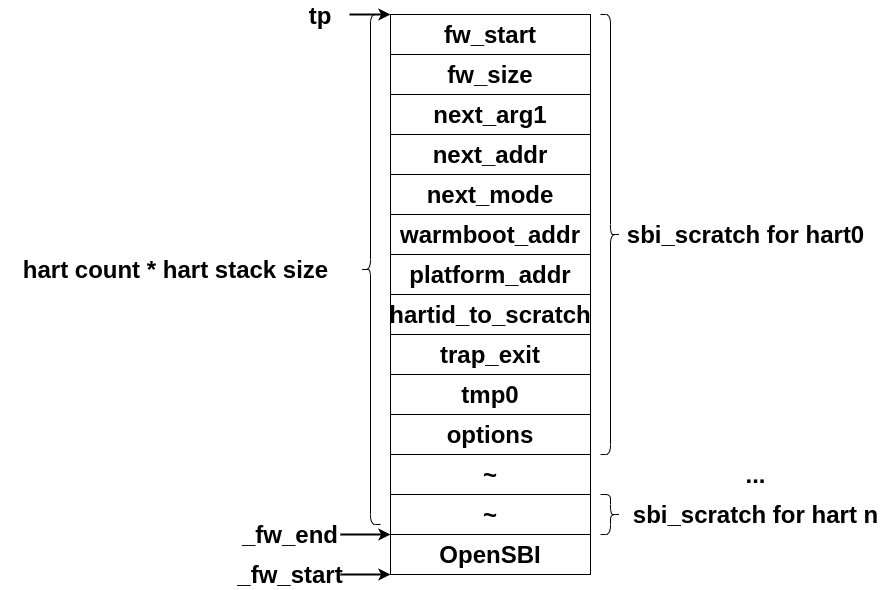
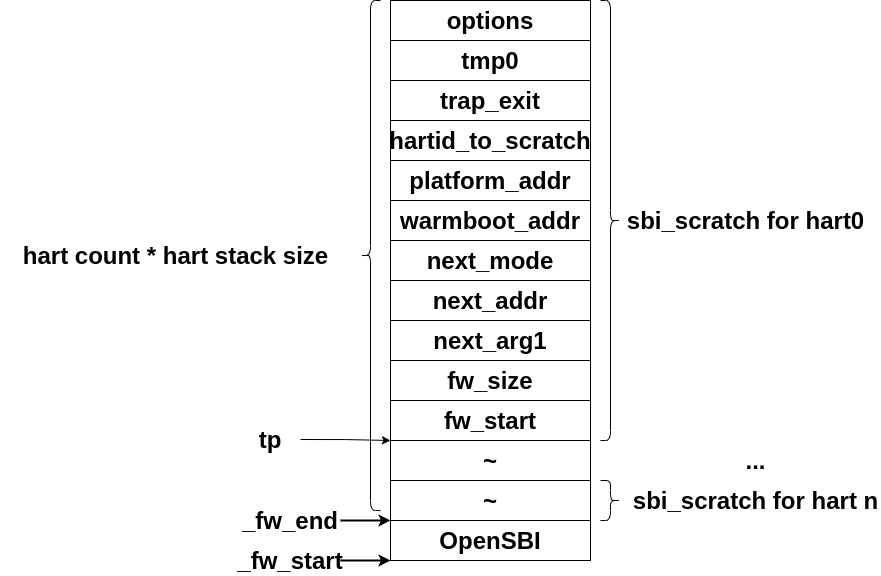
update & fix

diff --git a/content/blog/reading_opensbi_part4/index.md b/content/blog/reading_opensbi_part4/index.md
@@ -197,7 +197,7 @@ struct sbi_platform {
 `tp`レジスタに`t3`レジスタを代入する。これは`_scratch_init`前に保存した`tp`の(scratch space)のアドレス
 次に、現在処理しているhart用のscratch spaceの`tp`からのオフセットを計算する。
 `s8 * t1`にて、`hart stack size * current hartid`で計算する。
-`tp`からオフセットを引き去る。(スタックは低位アドレス方面に伸長する。)
+`tp`からSBI\_SCRATCH\_SIZEを引き去る。
 `tp`はhartごとのscratch spaceのベースアドレスを指す。
 
 {{<figure src="./image00.png" >}}
